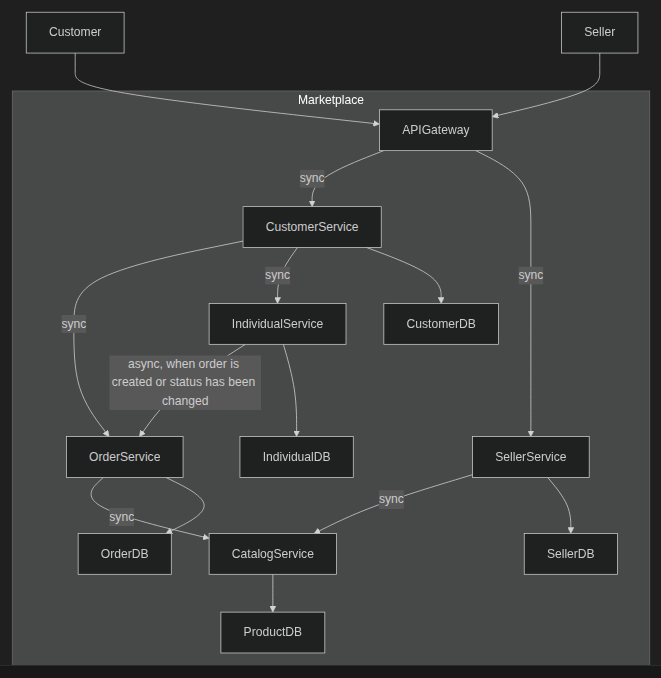
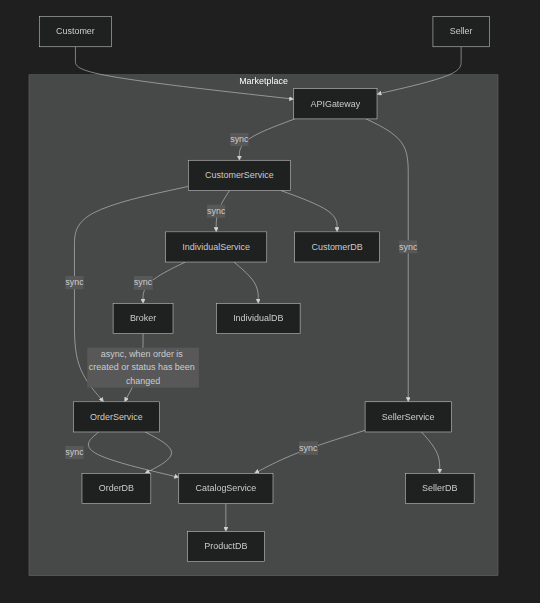
feat: changed alternative architecture

diff --git a/diagrams/architecture_alternative.md b/diagrams/architecture_alternative.md
@@ -18,6 +18,8 @@ graph TD
         ProductDB
         IndividualService
         IndividualDB
+
+        Broker
     end
 
     %% Relations
@@ -31,7 +33,8 @@ graph TD
     OrderService --> |sync| CatalogService
     CustomerService --> |sync| IndividualService
 
-    IndividualService --> |async, when order is created or status has been changed| OrderService
+    IndividualService --> |sync| Broker
+    Broker --> |async, when order is created or status has been changed| OrderService
 
     IndividualService --> IndividualDB
     CustomerService --> CustomerDB
